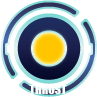
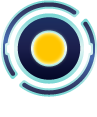
Propulsor acabado (solo quedan posibles cambios esteticos)

diff --git a/src/main/resources/static/src/states/game.js b/src/main/resources/static/src/states/game.js
@@ -6,6 +6,7 @@ Spacewar.gameState = function(game) {
 	this.playerAmmo
 	this.ammoButton
 	this.ammoText
+	this.thrustText
 	this.bulletIsFired = false
 }
 
@@ -122,17 +123,18 @@ Spacewar.gameState.prototype = {
 		game.global.ui.ammoButton.scale.setTo(0.5,0.5);
 		
 		//print thrust icon
-		game.global.ui.thrustButton = game.add.sprite(138,530, 'thrust');
+		game.global.ui.thrustButton = game.add.sprite(138,520, 'thrust');
 		game.global.ui.thrustButton.fixedToCamera = true;
-		game.global.ui.thrustButtonR = game.add.sprite(138,530, 'thrustR');
+		game.global.ui.thrustButtonR = game.add.sprite(138,520, 'thrustR');
 		game.global.ui.thrustButtonR.fixedToCamera = true;
-		game.global.ui.thrustButtonY = game.add.sprite(138,530, 'thrustY');
+		game.global.ui.thrustButtonY = game.add.sprite(138,520, 'thrustY');
 		game.global.ui.thrustButtonY.fixedToCamera = true;
-		game.global.ui.thrustButtonG = game.add.sprite(138,530, 'thrustG');
+		game.global.ui.thrustButtonG = game.add.sprite(138,520, 'thrustG');
 		game.global.ui.thrustButtonG.fixedToCamera = true;
-		var style2 = { fontSize: "48px", fill: "#ff0000"};
-		game.global.ui.thrustButtonG.addChild(this.thrustText = game.add.text(110,110, game.global.myPlayer.thrust, style2));
-		this.ammoText.anchor.set(0.5,0.5);
+		var style2 = {fontSize: "24px", fill: "#ffffff", align: "center"};
+		this.thrustText = game.add.text(188,572, game.global.myPlayer.thrust, style2);
+		this.thrustText.fixedToCamera = true;
+		this.thrustText.anchor.set(0.5,0.5);
 		
 		
 		//print ui health bar
@@ -178,11 +180,26 @@ Spacewar.gameState.prototype = {
 			msg.ammo = this.playerAmmo;
 		}
 
-		//update ammo icon
+		//update ammo text
 		if (this.bulletIsFired){
 			this.ammoText.setText(game.global.myPlayer.ammo.toString())
 		}
 
+		//update thrust text
+		if (game.global.myPlayer.thrust>1){
+			this.thrustText.setText(Math.trunc(game.global.myPlayer.thrust).toString())
+			if (game.global.myPlayer.thrust>50)
+				this.thrustText.setStyle({fontSize: "24px", fill: "#ffffff", align: "center"} )
+			else if (game.global.myPlayer.thrust>25)
+				this.thrustText.setStyle({fontSize: "24px", fill: "#0000ff", align: "center"} )
+			else
+				this.thrustText.setStyle({fontSize: "24px", fill: "#000000", align: "center"} )
+		}
+		else{
+			this.thrustText.setText("NO\n FUEL")
+			this.thrustText.setStyle({fontSize: "18px", fill: "#ff0000", align: "center"} )
+		}
+			
 		if (game.global.DEBUG_MODE) {
 			console.log("[DEBUG] Sending UPDATE MOVEMENT message to server")
 		}

diff --git a/target/classes/static/src/states/game.js b/target/classes/static/src/states/game.js
@@ -6,6 +6,7 @@ Spacewar.gameState = function(game) {
 	this.playerAmmo
 	this.ammoButton
 	this.ammoText
+	this.thrustText
 	this.bulletIsFired = false
 }
 
@@ -122,17 +123,18 @@ Spacewar.gameState.prototype = {
 		game.global.ui.ammoButton.scale.setTo(0.5,0.5);
 		
 		//print thrust icon
-		game.global.ui.thrustButton = game.add.sprite(138,530, 'thrust');
+		game.global.ui.thrustButton = game.add.sprite(138,520, 'thrust');
 		game.global.ui.thrustButton.fixedToCamera = true;
-		game.global.ui.thrustButtonR = game.add.sprite(138,530, 'thrustR');
+		game.global.ui.thrustButtonR = game.add.sprite(138,520, 'thrustR');
 		game.global.ui.thrustButtonR.fixedToCamera = true;
-		game.global.ui.thrustButtonY = game.add.sprite(138,530, 'thrustY');
+		game.global.ui.thrustButtonY = game.add.sprite(138,520, 'thrustY');
 		game.global.ui.thrustButtonY.fixedToCamera = true;
-		game.global.ui.thrustButtonG = game.add.sprite(138,530, 'thrustG');
+		game.global.ui.thrustButtonG = game.add.sprite(138,520, 'thrustG');
 		game.global.ui.thrustButtonG.fixedToCamera = true;
-		var style2 = { fontSize: "48px", fill: "#ff0000"};
-		game.global.ui.thrustButtonG.addChild(this.thrustText = game.add.text(110,110, game.global.myPlayer.thrust, style2));
-		this.ammoText.anchor.set(0.5,0.5);
+		var style2 = {fontSize: "24px", fill: "#ffffff", align: "center"};
+		this.thrustText = game.add.text(188,572, game.global.myPlayer.thrust, style2);
+		this.thrustText.fixedToCamera = true;
+		this.thrustText.anchor.set(0.5,0.5);
 		
 		
 		//print ui health bar
@@ -178,11 +180,26 @@ Spacewar.gameState.prototype = {
 			msg.ammo = this.playerAmmo;
 		}
 
-		//update ammo icon
+		//update ammo text
 		if (this.bulletIsFired){
 			this.ammoText.setText(game.global.myPlayer.ammo.toString())
 		}
 
+		//update thrust text
+		if (game.global.myPlayer.thrust>1){
+			this.thrustText.setText(Math.trunc(game.global.myPlayer.thrust).toString())
+			if (game.global.myPlayer.thrust>50)
+				this.thrustText.setStyle({fontSize: "24px", fill: "#ffffff", align: "center"} )
+			else if (game.global.myPlayer.thrust>25)
+				this.thrustText.setStyle({fontSize: "24px", fill: "#0000ff", align: "center"} )
+			else
+				this.thrustText.setStyle({fontSize: "24px", fill: "#000000", align: "center"} )
+		}
+		else{
+			this.thrustText.setText("NO\n FUEL")
+			this.thrustText.setStyle({fontSize: "18px", fill: "#ff0000", align: "center"} )
+		}
+			
 		if (game.global.DEBUG_MODE) {
 			console.log("[DEBUG] Sending UPDATE MOVEMENT message to server")
 		}

diff --git a/src/main/resources/static/src/index.js b/src/main/resources/static/src/index.js
@@ -67,6 +67,7 @@ window.onload = function() {
 			if (typeof game.global.myPlayer.image !== 'undefined') {
 				for (var player of msg.players) {
 					if (game.global.myPlayer.id == player.id) {
+						game.global.myPlayer.thrust = player.thrust
 						game.global.myPlayer.image.x = player.posX
 						game.global.myPlayer.image.y = player.posY
 						game.global.myPlayer.image.angle = player.facingAngle
@@ -81,6 +82,21 @@ window.onload = function() {
 						game.global.myPlayer.health1.y = player.posY
 						game.global.ui.currentHealth.scale.setTo(2.23*scale, 3.42)
 						game.global.myPlayer.points = player.points
+						if(player.thrust>50)
+							game.global.ui.thrustButtonG.alpha = 1;						
+						else if (player.thrust>25){
+							game.global.ui.thrustButtonG.alpha = 0;
+							game.global.ui.thrustButtonY.alpha = 1;
+						}
+						else if (player.thrust>1){
+							game.global.ui.thrustButtonY.alpha = 0;
+							game.global.ui.thrustButtonR.alpha = 1;
+						}
+						else{
+							game.global.ui.thrustButtonR.alpha = 0;
+							game.global.ui.thrustButton.alpha = 1;
+						}
+						
 						game.global.ui.scoreText.setText(player.points)
 						game.global.ui.roomLabel.setText(game.global.myPlayer.roomname)
 						if (player.death) {

diff --git a/target/classes/static/src/index.js b/target/classes/static/src/index.js
@@ -67,6 +67,7 @@ window.onload = function() {
 			if (typeof game.global.myPlayer.image !== 'undefined') {
 				for (var player of msg.players) {
 					if (game.global.myPlayer.id == player.id) {
+						game.global.myPlayer.thrust = player.thrust
 						game.global.myPlayer.image.x = player.posX
 						game.global.myPlayer.image.y = player.posY
 						game.global.myPlayer.image.angle = player.facingAngle
@@ -81,6 +82,21 @@ window.onload = function() {
 						game.global.myPlayer.health1.y = player.posY
 						game.global.ui.currentHealth.scale.setTo(2.23*scale, 3.42)
 						game.global.myPlayer.points = player.points
+						if(player.thrust>50)
+							game.global.ui.thrustButtonG.alpha = 1;						
+						else if (player.thrust>25){
+							game.global.ui.thrustButtonG.alpha = 0;
+							game.global.ui.thrustButtonY.alpha = 1;
+						}
+						else if (player.thrust>1){
+							game.global.ui.thrustButtonY.alpha = 0;
+							game.global.ui.thrustButtonR.alpha = 1;
+						}
+						else{
+							game.global.ui.thrustButtonR.alpha = 0;
+							game.global.ui.thrustButton.alpha = 1;
+						}
+						
 						game.global.ui.scoreText.setText(player.points)
 						game.global.ui.roomLabel.setText(game.global.myPlayer.roomname)
 						if (player.death) {

diff --git a/src/main/resources/static/src/states/preload.js b/src/main/resources/static/src/states/preload.js
@@ -43,7 +43,7 @@ Spacewar.preloadState.prototype = {
 		game.load.image('health1','assets/spaceship/hp_bar_1.png');
 		game.load.image('healthbar','assets/images/healthbar.png');
 		game.load.image('thrust','assets/images/thrustIcon.png');
-		game.load.image('thrustR','assets/images/thrustIconEmpty.png');
+		game.load.image('thrustR','assets/images/thrustIconLow.png');
 		game.load.image('thrustY','assets/images/thrustIconAlert.png');
 		game.load.image('thrustG','assets/images/thrustIconFull.png');
 		

diff --git a/target/classes/static/src/states/preload.js b/target/classes/static/src/states/preload.js
@@ -43,7 +43,7 @@ Spacewar.preloadState.prototype = {
 		game.load.image('health1','assets/spaceship/hp_bar_1.png');
 		game.load.image('healthbar','assets/images/healthbar.png');
 		game.load.image('thrust','assets/images/thrustIcon.png');
-		game.load.image('thrustR','assets/images/thrustIconEmpty.png');
+		game.load.image('thrustR','assets/images/thrustIconLow.png');
 		game.load.image('thrustY','assets/images/thrustIconAlert.png');
 		game.load.image('thrustG','assets/images/thrustIconFull.png');
 		

diff --git a/src/main/java/spacewar/Player.java b/src/main/java/spacewar/Player.java
@@ -14,7 +14,7 @@ public class Player extends Spaceship {
 	private float health;
 	private int ammo;
 	private int points;
-	private int thrust;
+	private float thrust;
 	private String roomname;
 	
 	private boolean _dead;
@@ -25,7 +25,7 @@ public class Player extends Spaceship {
 		this.health = 100.0f;
 		// TODO Cambiar esta linea (hay que mandar el numero max de proyectiles)
 		this.ammo = 50;
-		this.thrust = 100;
+		this.thrust = 99.0f;
 		this._dead = false;
 		this.points = 0;
 		this.roomname = "";
@@ -91,9 +91,14 @@ public class Player extends Spaceship {
 			if (thrust && this.thrust>0) {
 				this.thrust--;				
 			}
-			else if (!thrust && this.thrust<100)
-				this.thrust++;
-			System.out.println("THRUST ACTUAL: " + this.thrust);
+			else if (!thrust && this.thrust<99) {
+				if (this.thrust<1) 
+					this.thrust = this.thrust + 0.1f;
+				else if (this.thrust<50) 
+					this.thrust = this.thrust + 0.4f;				
+				else
+					this.thrust = this.thrust + 0.3f;
+			}
 			if (thrust && this.thrust<=0) {
 				thrust = false;
 				brake = true;
@@ -138,7 +143,7 @@ public class Player extends Spaceship {
 		this.points = point;
 	}
 
-	public int getThrust() {
+	public float getThrust() {
 		return thrust;
 	}
 
